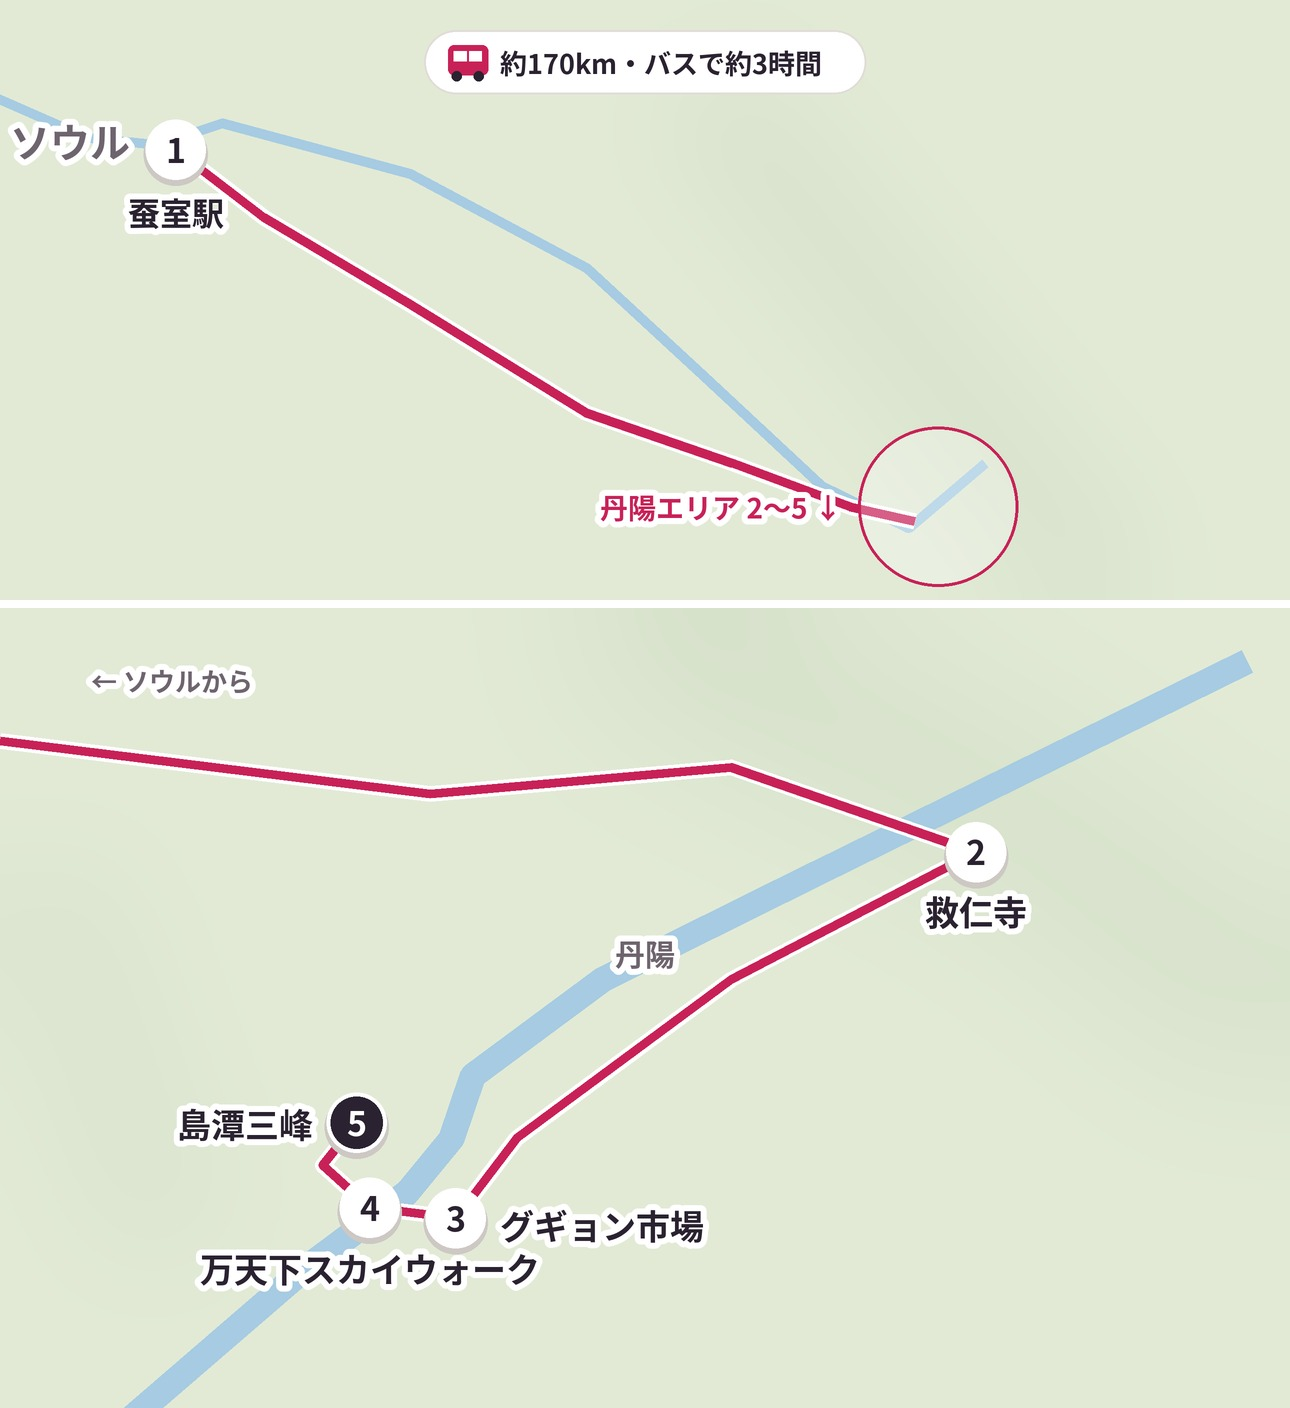
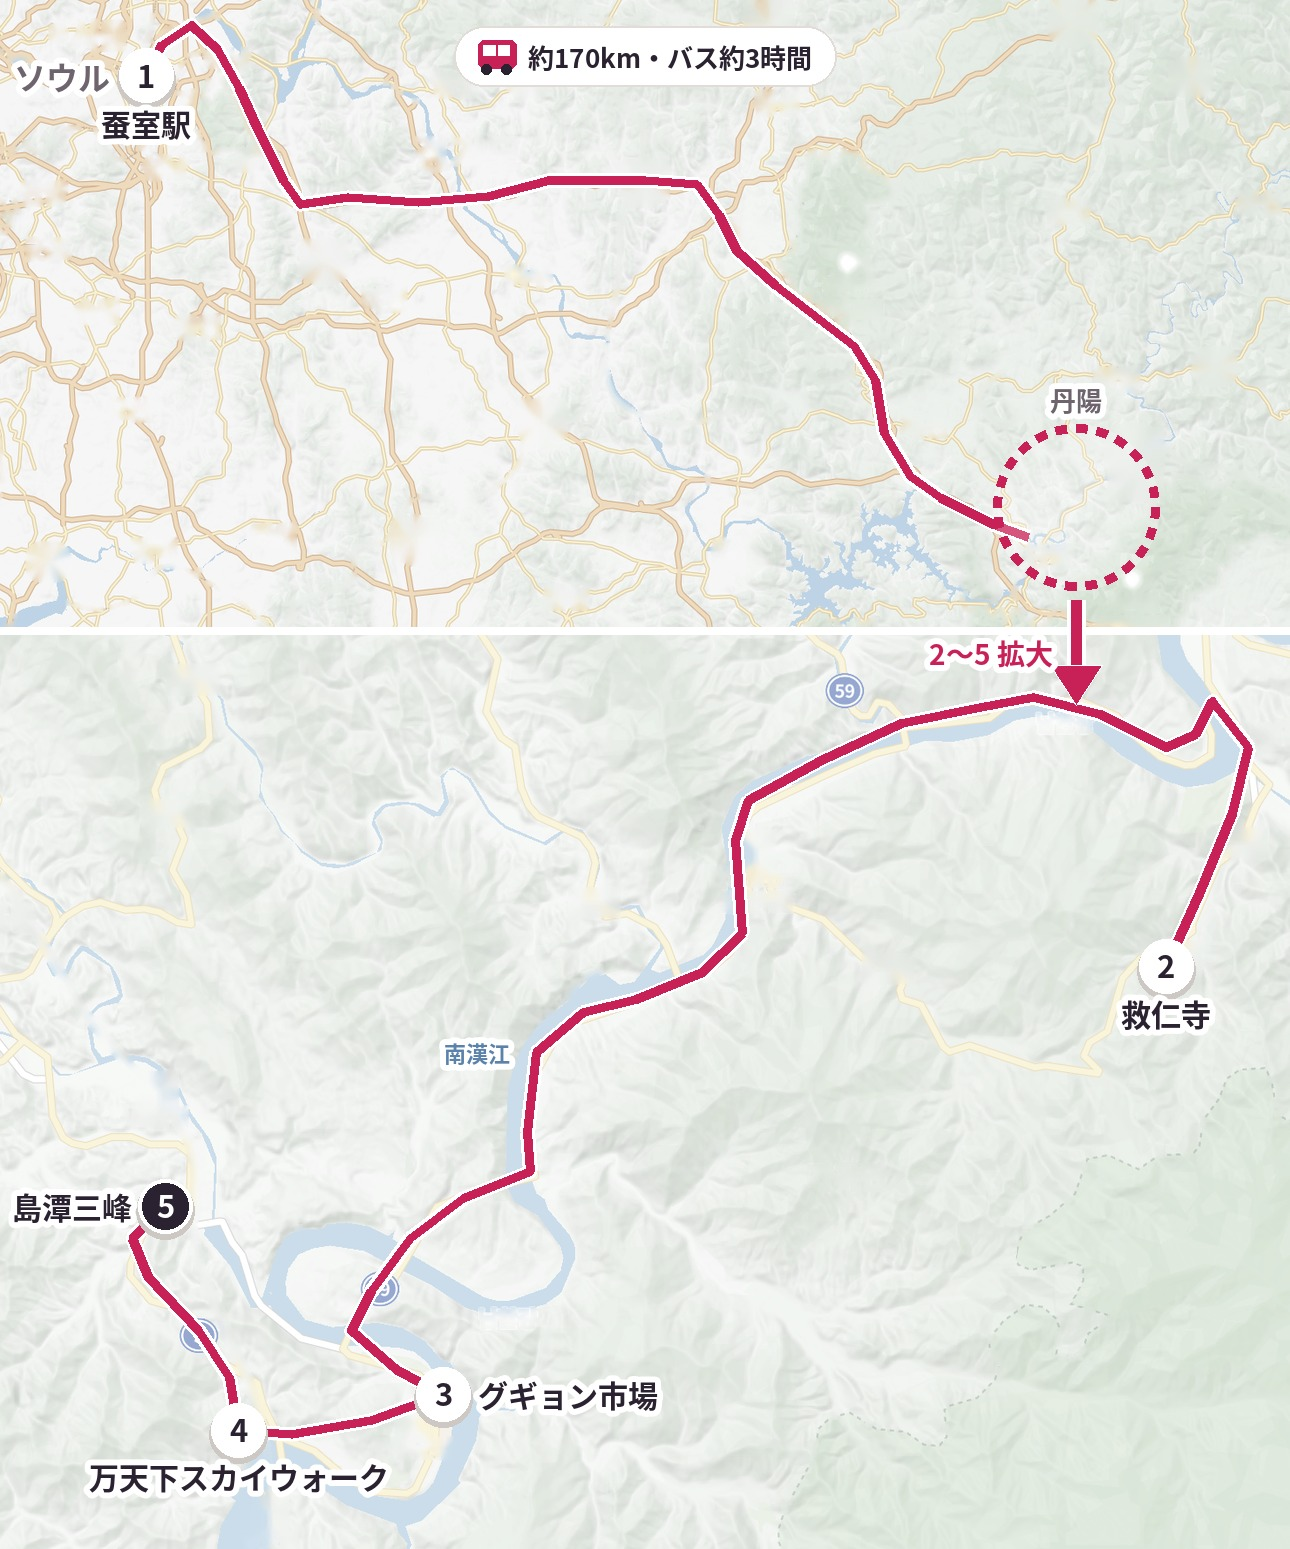
Add files via upload

diff --git a/css/style.css b/css/style.css
@@ -260,8 +260,8 @@ button:not([disabled]):active,a.cta:active,.btn2:active,.btns a:active,.ichi-car
 .cmpt tr.sum td{font-weight:900;font-size:15px}.cmpt small{display:block;font-size:11.5px;font-weight:400;color:#999}.cmpt td.t small{color:var(--rose)}
 /* 주의사항 박스 */
 .warnsec{border-bottom:none;padding-bottom:6px}
-.warn{border:2px solid #E2343B;background:#FDF0F0;border-radius:18px;padding:16px 12px 8px}
-.warn .wt{color:#E2343B;font-weight:900;font-size:17px;text-align:center;margin-bottom:12px}
+.warn{border:2px solid #C82158;background:#FDF0F4;border-radius:18px;padding:16px 12px 8px}
+.warn .wt{color:#C82158;font-weight:900;font-size:17px;text-align:center;margin-bottom:12px}
 .wc{background:#fff;border-radius:12px;padding:12px 13px;margin-bottom:8px}.wc b{font-size:14px;display:block;margin-bottom:3px}
 .wc p{margin:0;font-size:min(10.8px,2.72vw);color:#666;line-height:1.65;white-space:nowrap;letter-spacing:-.2px}
 /* 푸터 문의 */
@@ -383,9 +383,9 @@ background:rgba(255,255,255,.78);backdrop-filter:blur(20px) saturate(180%);-webk
 .tplay::after{content:"";position:absolute;left:5px;top:3.5px;border-left:6px solid #fff;border-top:3.5px solid transparent;border-bottom:3.5px solid transparent}
 .th button{position:relative}
 .mpm{position:relative;height:170px;overflow:hidden}
-.mpm iframe{width:100%;height:100%;border:0;display:block;pointer-events:none;filter:url(#kkwarm)}
+.mpm iframe{position:absolute;left:0;top:-60px;width:100%;height:calc(100% + 60px);border:0;display:block;pointer-events:none;filter:grayscale(1) sepia(.18) contrast(.55) brightness(1.22)}
 .mlink{position:absolute;inset:0;z-index:1}
-.mpin{position:absolute;left:50%;top:50%;transform:translate(-50%,-100%);pointer-events:none;z-index:2;line-height:0}
+.mpin{position:absolute;left:50%;top:55px;transform:translate(-50%,-100%);pointer-events:none;z-index:2;line-height:0}
 .gbadge{position:absolute;left:10px;bottom:10px;z-index:2;background:#fff;border-radius:99px;padding:3px 10px;font:700 13px Arial,sans-serif;box-shadow:0 1px 4px rgba(0,0,0,.18);pointer-events:none}
 .gbadge b:nth-child(1),.gbadge b:nth-child(4){color:#4285F4}.gbadge b:nth-child(2),.gbadge b:nth-child(6){color:#EA4335}.gbadge b:nth-child(3){color:#FBBC05}.gbadge b:nth-child(5){color:#34A853}
 .mexp{position:absolute;right:10px;top:10px;z-index:2;width:36px;height:36px;border-radius:9px;background:#fff;box-shadow:0 1px 4px rgba(0,0,0,.18);display:flex;align-items:center;justify-content:center;pointer-events:none}
@@ -430,3 +430,9 @@ background:rgba(255,255,255,.78);backdrop-filter:blur(20px) saturate(180%);-webk
 .hd a{display:inline-flex;align-items:center;min-height:44px}
 .res a.note,.res .cl,.note a{display:inline-flex;align-items:center;min-height:44px}
 .footer-links{row-gap:0}
+
+/* v19 */
+#reserve.need,#reserve.need:hover,#reserve.need:active,#reserve.need:focus{background:#E8E3E6;color:#2A2230;box-shadow:none;filter:none;transform:none}
+.pmh{margin:0 0 16px;font-size:12px;line-height:1.6;color:#C82158;white-space:nowrap;font-feature-settings:"palt";letter-spacing:-.01em}
+.agreet.miss{color:#C82158}
+.paybtn[aria-disabled="true"]:hover,.paybtn[aria-disabled="true"]:active{filter:none;transform:none}

diff --git a/js/product.js b/js/product.js
@@ -58,7 +58,7 @@
     '<div class="sec"><h2>体験レビュー</h2><div class="rv"><div>インフルエンサー<br>体験写真（準備中）</div><div>インフルエンサー<br>体験写真（準備中）</div></div></div>' +
     '<div class="sec warnsec"><div class="warn"><div class="wt">⚠ ご予約前に必ずご確認ください</div>' + K.warn.map(function (w, i) { return '<div class="wc"><b>' + (i + 1) + '. ' + w[0] + '</b><p>' + w[1] + '</p></div>'; }).join("") + '</div></div>' +
     '<div class="sec"><h2 style="margin-bottom:4px">集合場所</h2><div class="note" style="margin:0 0 12px">出発の10分前までにお集まりください。</div>' +
-      '<svg width="0" height="0" style="position:absolute" aria-hidden="true"><filter id="kkwarm" color-interpolation-filters="sRGB"><feColorMatrix type="matrix" values="0.299 0.587 0.114 0 0 0.299 0.587 0.114 0 0 0.299 0.587 0.114 0 0 0 0 0 1 0"/><feComponentTransfer><feFuncR type="table" tableValues="0.7843 0.7843 0.7843 0.7843 0.7843 0.7843 0.7843 0.7843 0.7843 0.7843 0.8021 0.82 0.8378 0.8556 0.8734 0.8913 0.9091 0.9269 0.9447 0.9626 0.9804"/><feFuncG type="table" tableValues="0.7569 0.7569 0.7569 0.7569 0.7569 0.7569 0.7569 0.7569 0.7569 0.7569 0.7765 0.7961 0.8157 0.8353 0.8549 0.8745 0.8941 0.9137 0.9333 0.9529 0.9725"/><feFuncB type="table" tableValues="0.7333 0.7333 0.7333 0.7333 0.7333 0.7333 0.7333 0.7333 0.7333 0.7333 0.7544 0.7754 0.7964 0.8175 0.8385 0.8595 0.8806 0.9016 0.9226 0.9437 0.9647"/></feComponentTransfer></filter></svg><div class="mpc"><div class="mpm"><iframe loading="lazy" tabindex="-1" aria-hidden="true" title="集合場所の地図" src="https://maps.google.com/maps?q=%EC%9E%A0%EC%8B%A4%EC%97%AD&z=15&hl=ja&output=embed"></iframe>' +
+      '<div class="mpc"><div class="mpm"><iframe loading="lazy" tabindex="-1" aria-hidden="true" title="集合場所の地図" src="https://maps.google.com/maps?q=%EC%9E%A0%EC%8B%A4%EC%97%AD&z=15&hl=ja&output=embed"></iframe>' +
         '<a class="mlink" href="' + K.MEETING.map + '" target="_blank" rel="noopener" id="gmap" aria-label="Googleマップで開く"></a><i class="mpin">' + PIN + '</i>' +
         '<span class="gbadge"><b>G</b><b>o</b><b>o</b><b>g</b><b>l</b><b>e</b></span><span class="mexp">' + EXP + '</span></div>' +
         '<a class="mrow" href="' + K.MEETING.map + '" target="_blank" rel="noopener" id="gmap2"><b>' + K.MEETING.ja + '</b><i>›</i></a>' +
@@ -147,7 +147,7 @@
     var ready = !!(o.date && o.time && o.qty), total = p.priceKrw * (ready ? o.qty : 1);
     $(L).innerHTML = ready ? o.qty + "名選択" : '<em>' + pct + '%</em><s>' + K.yen(so.total, rate()).replace("約", "") + '</s>';
     $(Y).textContent = K.yen(total, rate()); $(W).textContent = K.krw(total);
-    if (btn !== "reserve") $(btn).disabled = !ready;
+    if (btn !== "reserve") $(btn).disabled = !ready; else $(btn).classList.toggle("need", !ready);
   }
   function render() {
     var sug = openDates().slice(0, 2);

diff --git a/checkout.html b/checkout.html
@@ -7,12 +7,11 @@
 <meta name="robots" content="noindex">
 <link rel="preconnect" href="https://fonts.googleapis.com">
 <link href="https://fonts.googleapis.com/css2?family=Noto+Sans+JP:wght@400;700;900&display=swap" rel="stylesheet">
-<link rel="stylesheet" href="css/style.css?v=18">
+<link rel="stylesheet" href="css/style.css?v=19">
 <script src="https://js.tosspayments.com/v2/standard"></script>
 </head>
 <body class="ckpage">
 <div class="wrap">
-  <div class="test-bar" id="testBar" lang="ko" hidden>테스트 모드: 실제 결제가 이루어지지 않습니다</div>
   <div class="phd2"><a href="index.html" id="backLink" aria-label="戻る"><svg width="22" height="22" viewBox="0 0 24 24" fill="none" stroke="#2A2230" stroke-width="2.6" stroke-linecap="round"><path d="M15 5l-7 7 7 7"/></svg></a><b>お支払い</b><span></span></div>
 
   <div class="sec"><h2>ご予約内容</h2>
@@ -29,6 +28,7 @@
     </div>
 
     <div class="sec"><h2>お支払い方法</h2>
+      <p class="pmh">「퀵계좌이체」ではなく「신용·체크카드」を選択してください。</p>
       <div id="payment-method"></div><div id="agreement"></div>
     </div>
 
@@ -42,17 +42,17 @@
         <li><span>利用規約</span><button type="button" data-legal="terms">見る</button></li>
         <li><span>プライバシーポリシー</span><button type="button" data-legal="privacy">見る</button></li>
         <li><span>特定商取引法に基づく表記</span><button type="button" data-legal="legal">見る</button></li>
-        <li><button type="button" class="bizl" data-legal="biz" lang="ko">사업자정보</button></li>
+        <li><span lang="ko">사업자정보</span><button type="button" data-legal="biz" lang="ko">보기</button></li>
       </ul>
 
-      <p class="agreet">上記の内容を確認し、お支払いに同意します。</p>
+      <p class="agreet miss" id="agreet">必須項目を入力してください。</p>
       <div class="err" id="err"></div>
       <button type="submit" class="paybtn" id="payBtn" aria-disabled="true">決済する</button>
     </div>
   </form>
 </div>
-<script src="js/data.js?v=18"></script>
-<script src="js/common.js?v=18"></script>
-<script src="js/checkout.js?v=18"></script>
+<script src="js/data.js?v=19"></script>
+<script src="js/common.js?v=19"></script>
+<script src="js/checkout.js?v=19"></script>
 </body>
 </html>

diff --git a/js/data.js b/js/data.js
@@ -23,7 +23,7 @@ window.KOKOIKO = {
       hero: ["jd_hero", "jd_gs", "jd_g3", "jd_g2", "jd_tk"], thumb0: "jd_th1",
       // 혼자 갈 때 비용(고속버스·현지 택시 1인 기준, 2026-11 조사)
       solo: { trans: 183400, entry: 5000, total: 188400, bus: "約9時間<br>乗り換え7回" },
-      route: { img: "jd_route.jpg", ratio: "1290/1500" },
+      route: { img: "jd_route.jpg", ratio: "1290/1194" },
       intro: {
         lead: "竹林と韓屋にときめく、<br>韓国でいちばん“韓国らしい”一日。",
         desc: "自然・感性・伝統文化をまとめて楽しめる日帰り旅。竹林を歩き、並木道で写真を撮り、韓屋村で韓服さんぽ。自由時間たっぷりなので、自分のペースで楽しめます。",
@@ -47,7 +47,7 @@ window.KOKOIKO = {
       sellDays: [6],
       hero: ["gn_hero", "video:gn_sheep", "video:gn_wave", "gn_tk"],
       solo: { trans: 172020, entry: 9000, total: 181020, bus: "牧場から<br>公共交通なし" },
-      route: { img: "gn_route.jpg", ratio: "1290/1308" }, // 동선지도: 위 서울→강릉 전체 / 아래 강릉 확대
+      route: { img: "gn_route.jpg", ratio: "1290/1307" }, // 동선지도: 위 서울→강릉 전체 / 아래 강릉 확대
       intro: {
         lead: "午前は雪の高原、<br>午後は海辺のKカフェ。",
         desc: "高原の牧場と日本海ブルーの海を、1日でまとめて楽しめる旅。まるで“海のある軽井沢”。カフェ通りでのんびりする自由時間もたっぷり。",
@@ -71,7 +71,7 @@ window.KOKOIKO = {
       sellDays: [6], gwDates: ["2027-04-29", "2027-05-01", "2027-05-03", "2027-05-04", "2027-05-05"],
       hero: ["dy_hero", "dy_gs", "dy_g3", "dy_g2", "dy_tk"],
       solo: { trans: 154720, entry: 4000, total: 158720, bus: "現地移動だけで<br>約4時間半" },
-      route: { img: "dy_route.jpg", ratio: "1290/1408" },
+      route: { img: "dy_route.jpg", ratio: "1290/1549" },
       intro: {
         lead: "山あいの絶景と、<br>にんにくグルメの町さんぽ。",
         desc: "ユネスコ世界ジオパークに選ばれた、石灰岩がつくる絶景の町。空中を歩く展望台や川に浮かぶ奇岩、名物にんにくグルメまで、1日でまとめて楽しめます。",

diff --git a/js/checkout.js b/js/checkout.js
@@ -29,7 +29,6 @@
   // /api/config → SDK 초기화 → 금액 설정 → 결제수단·약관 위젯 렌더 (클라이언트 키만 받음)
   fetch("/api/config").then(function (r) { return r.json(); }).then(function (cfg) {
     if (!cfg.clientKey) throw new Error(cfg.message || "config error");
-    if (cfg.testMode) $("testBar").hidden = false;
     widgets = TossPayments(cfg.clientKey).widgets({ customerKey: TossPayments.ANONYMOUS });
     return widgets.setAmount({ currency: "KRW", value: total }).then(function () {
       return Promise.all([
@@ -61,7 +60,10 @@
     if (box) { box.textContent = bad ? RULES[f][1] : ""; box.hidden = !bad; }
   }
   function allOk() { return FIELDS.every(okField); }
-  function updBtn() { $("payBtn").setAttribute("aria-disabled", allOk() && widgets ? "false" : "true"); }
+  function updBtn() {
+    var ok = allOk(); $("payBtn").setAttribute("aria-disabled", ok && widgets ? "false" : "true");
+    var a = $("agreet"); a.textContent = ok ? "上記の内容を確認し、お支払いに同意します。" : "必須項目を入力してください。"; a.classList.toggle("miss", !ok);
+  }
   FIELDS.forEach(function (f) {
     $(f).addEventListener("blur", function () { if ($(f).value) touched[f] = true; showErr(f); });
     $(f).addEventListener("input", function () { if (touched[f]) showErr(f); updBtn(); });

diff --git a/index.html b/index.html
@@ -14,7 +14,7 @@
 <meta name="twitter:card" content="summary_large_image">
 <link rel="preconnect" href="https://fonts.googleapis.com">
 <link href="https://fonts.googleapis.com/css2?family=Noto+Sans+JP:wght@400;700;900&display=swap" rel="stylesheet">
-<link rel="stylesheet" href="css/style.css?v=18">
+<link rel="stylesheet" href="css/style.css?v=19">
 </head>
 <body>
 <div class="wrap main">
@@ -90,8 +90,8 @@
   <button class="share" id="share" aria-label="シェア"><svg width="22" height="22" viewBox="0 0 24 24" fill="none" stroke="#2A2230" stroke-width="2" stroke-linecap="round" stroke-linejoin="round"><path d="M14 4h6v6"/><path d="M20 4l-9 9"/><path d="M18 14v5a1 1 0 0 1-1 1H5a1 1 0 0 1-1-1V7a1 1 0 0 1 1-1h5"/></svg></button>
   <a class="cta off" id="mainCta" href="#" aria-disabled="true"><span id="ctaMain">エリアを選んでください</span><small id="ctaSub">地図のエリアをタップ</small></a>
 </div>
-<script src="js/data.js?v=18"></script>
-<script src="js/common.js?v=18"></script>
-<script src="js/main.js?v=18"></script>
+<script src="js/data.js?v=19"></script>
+<script src="js/common.js?v=19"></script>
+<script src="js/main.js?v=19"></script>
 </body>
 </html>

diff --git a/success.html b/success.html
@@ -6,7 +6,7 @@
 <title>ご予約完了｜ここいこ</title>
 <meta name="robots" content="noindex">
 <link href="https://fonts.googleapis.com/css2?family=Noto+Sans+JP:wght@400;700;900&display=swap" rel="stylesheet">
-<link rel="stylesheet" href="css/style.css?v=18">
+<link rel="stylesheet" href="css/style.css?v=19">
 </head>
 <body>
 <div class="wrap" style="padding-bottom:30px">
@@ -14,8 +14,8 @@
   <main id="app"><div class="res"><div class="ic" style="background:#F7F3F5">⏳</div><h1>お支払いを確認しています…</h1><p>このままお待ちください。画面を閉じないでください。</p></div></main>
   <footer id="footer"></footer>
 </div>
-<script src="js/data.js?v=18"></script>
-<script src="js/common.js?v=18"></script>
+<script src="js/data.js?v=19"></script>
+<script src="js/common.js?v=19"></script>
 <script>
 // 결제 성공: 서버(/api/confirm)에서 금액 검증 후 승인 → 완료 화면 + 공유
 (function () {

diff --git a/fail.html b/fail.html
@@ -6,7 +6,7 @@
 <title>お支払いが完了しませんでした｜ここいこ</title>
 <meta name="robots" content="noindex">
 <link href="https://fonts.googleapis.com/css2?family=Noto+Sans+JP:wght@400;700;900&display=swap" rel="stylesheet">
-<link rel="stylesheet" href="css/style.css?v=18">
+<link rel="stylesheet" href="css/style.css?v=19">
 </head>
 <body>
 <div class="wrap" style="padding-bottom:30px">
@@ -18,8 +18,8 @@
     <p class="note" style="text-align:center;margin-top:20px">解決しない場合はお問い合わせください<br><span id="contact"></span></p></div>
   <footer id="footer"></footer>
 </div>
-<script src="js/data.js?v=18"></script>
-<script src="js/common.js?v=18"></script>
+<script src="js/data.js?v=19"></script>
+<script src="js/common.js?v=19"></script>
 <script>
 // 결제 실패·취소: 승인 API를 호출하지 않는다. 사유 안내 + 입력값을 유지한 채 결제 화면으로 복귀
 (function () {

diff --git a/jeonju-damyang.html b/jeonju-damyang.html
@@ -15,12 +15,12 @@
 <meta name="twitter:card" content="summary_large_image">
 <link rel="preconnect" href="https://fonts.googleapis.com">
 <link href="https://fonts.googleapis.com/css2?family=Noto+Sans+JP:wght@400;700;900&display=swap" rel="stylesheet">
-<link rel="stylesheet" href="css/style.css?v=18">
+<link rel="stylesheet" href="css/style.css?v=19">
 </head>
 <body data-product="jeonju-damyang">
 <div class="wrap" id="app"></div>
-<script src="js/data.js?v=18"></script>
-<script src="js/common.js?v=18"></script>
-<script src="js/product.js?v=18"></script>
+<script src="js/data.js?v=19"></script>
+<script src="js/common.js?v=19"></script>
+<script src="js/product.js?v=19"></script>
 </body>
 </html>

diff --git a/gangneung.html b/gangneung.html
@@ -15,12 +15,12 @@
 <meta name="twitter:card" content="summary_large_image">
 <link rel="preconnect" href="https://fonts.googleapis.com">
 <link href="https://fonts.googleapis.com/css2?family=Noto+Sans+JP:wght@400;700;900&display=swap" rel="stylesheet">
-<link rel="stylesheet" href="css/style.css?v=18">
+<link rel="stylesheet" href="css/style.css?v=19">
 </head>
 <body data-product="gangneung">
 <div class="wrap" id="app"></div>
-<script src="js/data.js?v=18"></script>
-<script src="js/common.js?v=18"></script>
-<script src="js/product.js?v=18"></script>
+<script src="js/data.js?v=19"></script>
+<script src="js/common.js?v=19"></script>
+<script src="js/product.js?v=19"></script>
 </body>
 </html>

diff --git a/danyang.html b/danyang.html
@@ -15,12 +15,12 @@
 <meta name="twitter:card" content="summary_large_image">
 <link rel="preconnect" href="https://fonts.googleapis.com">
 <link href="https://fonts.googleapis.com/css2?family=Noto+Sans+JP:wght@400;700;900&display=swap" rel="stylesheet">
-<link rel="stylesheet" href="css/style.css?v=18">
+<link rel="stylesheet" href="css/style.css?v=19">
 </head>
 <body data-product="danyang">
 <div class="wrap" id="app"></div>
-<script src="js/data.js?v=18"></script>
-<script src="js/common.js?v=18"></script>
-<script src="js/product.js?v=18"></script>
+<script src="js/data.js?v=19"></script>
+<script src="js/common.js?v=19"></script>
+<script src="js/product.js?v=19"></script>
 </body>
 </html>
